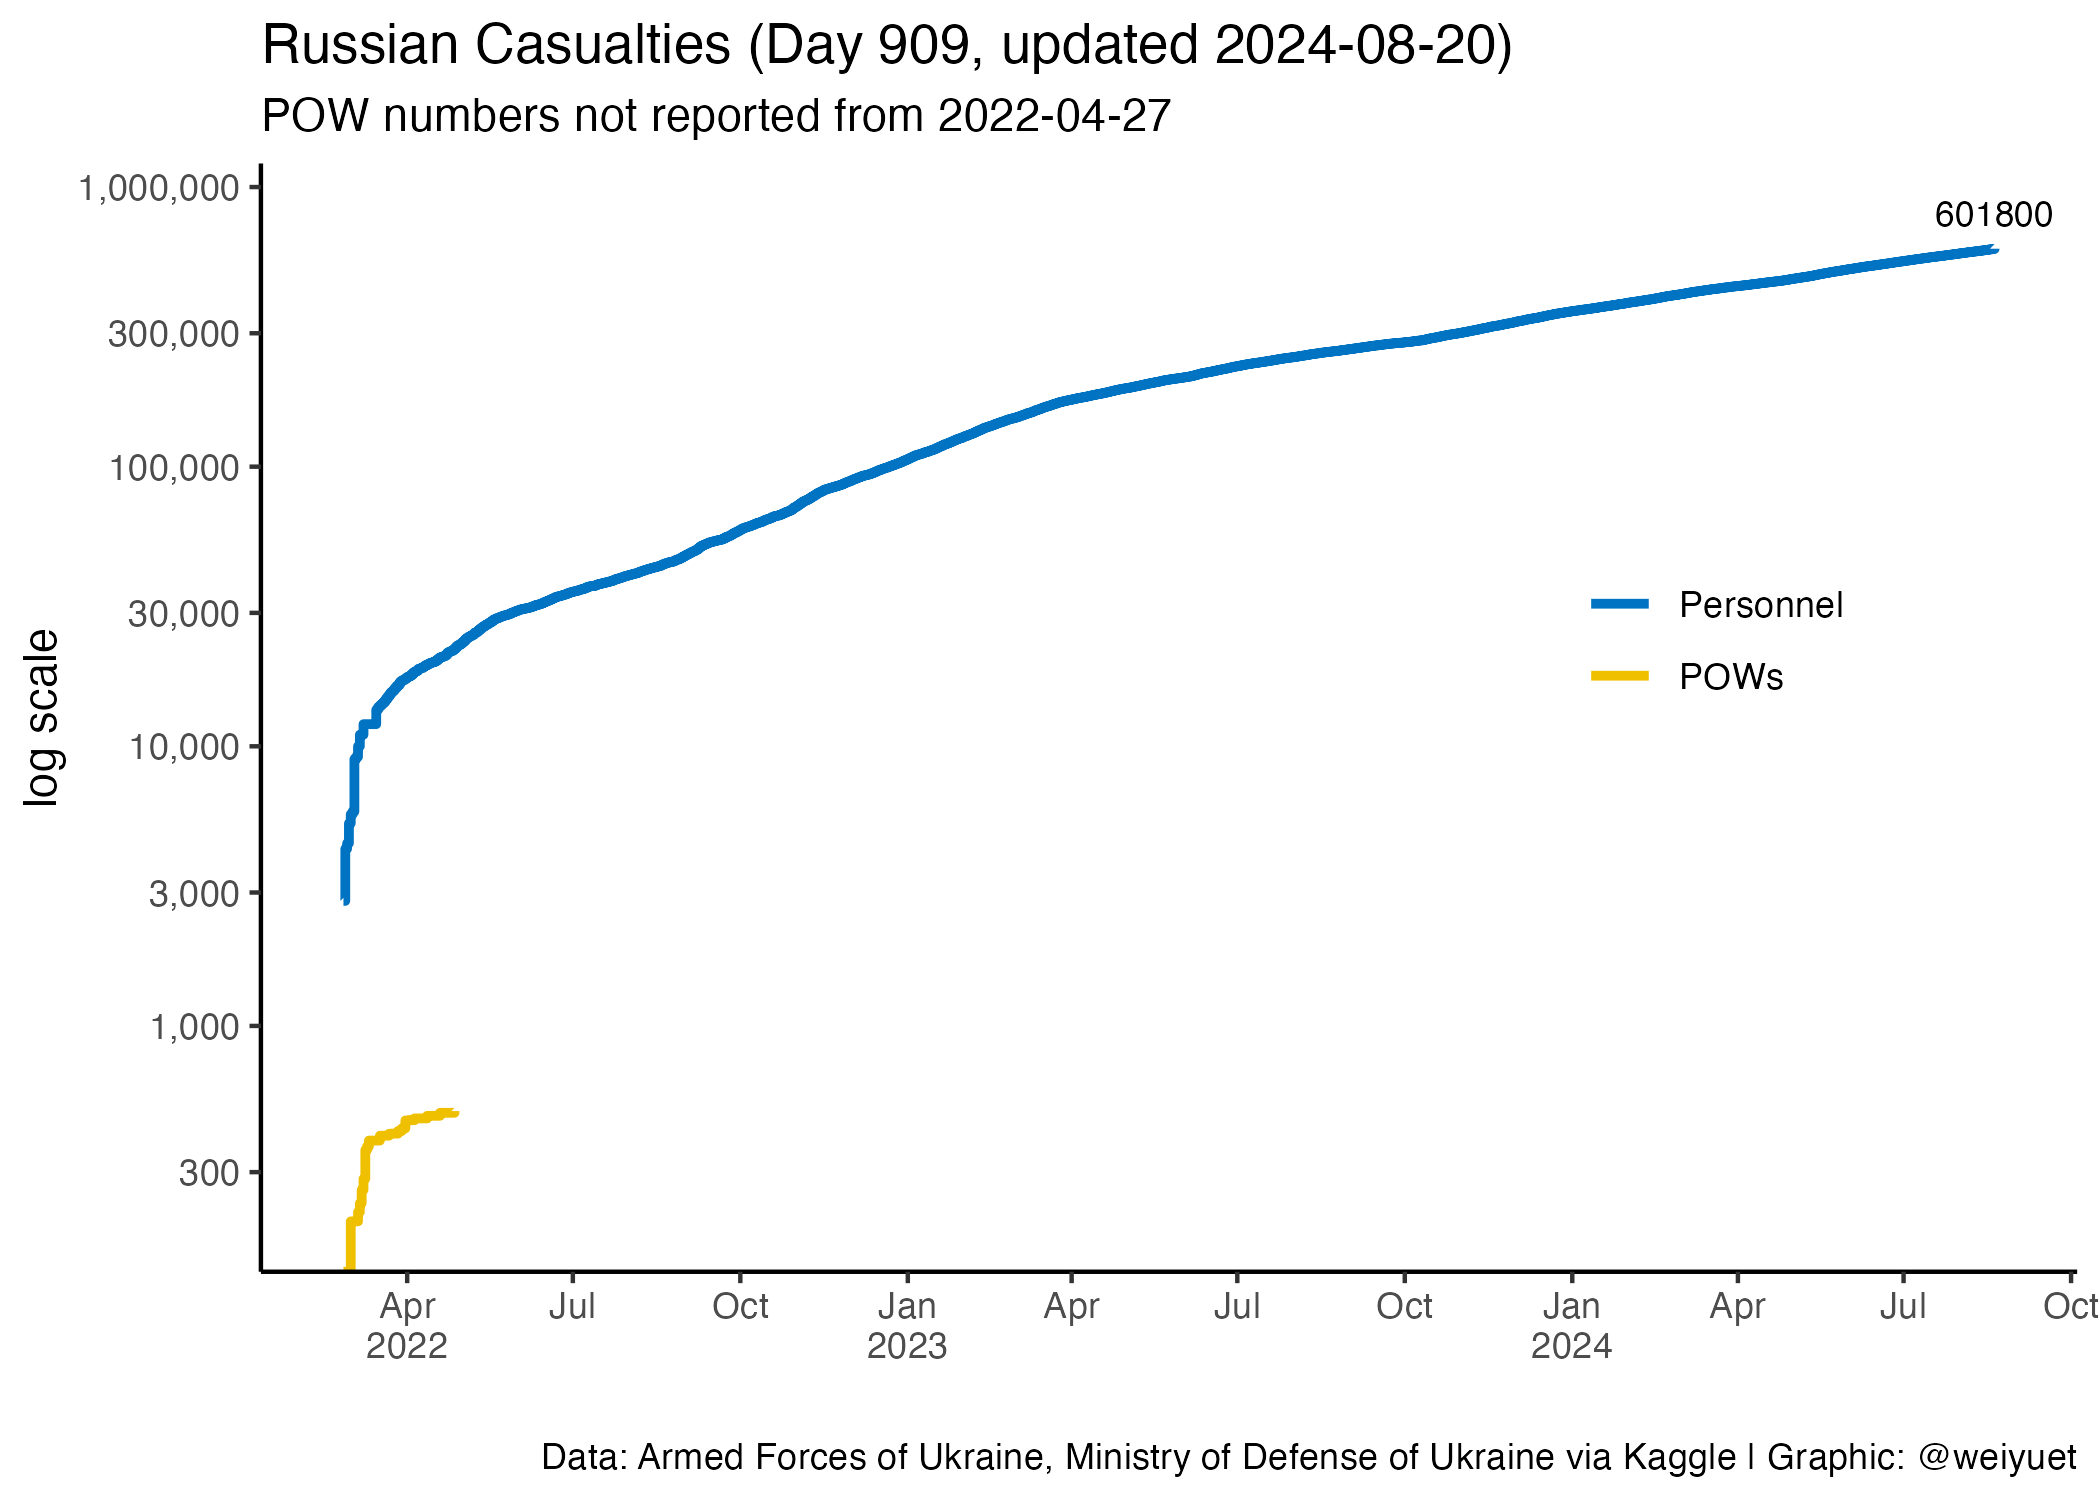
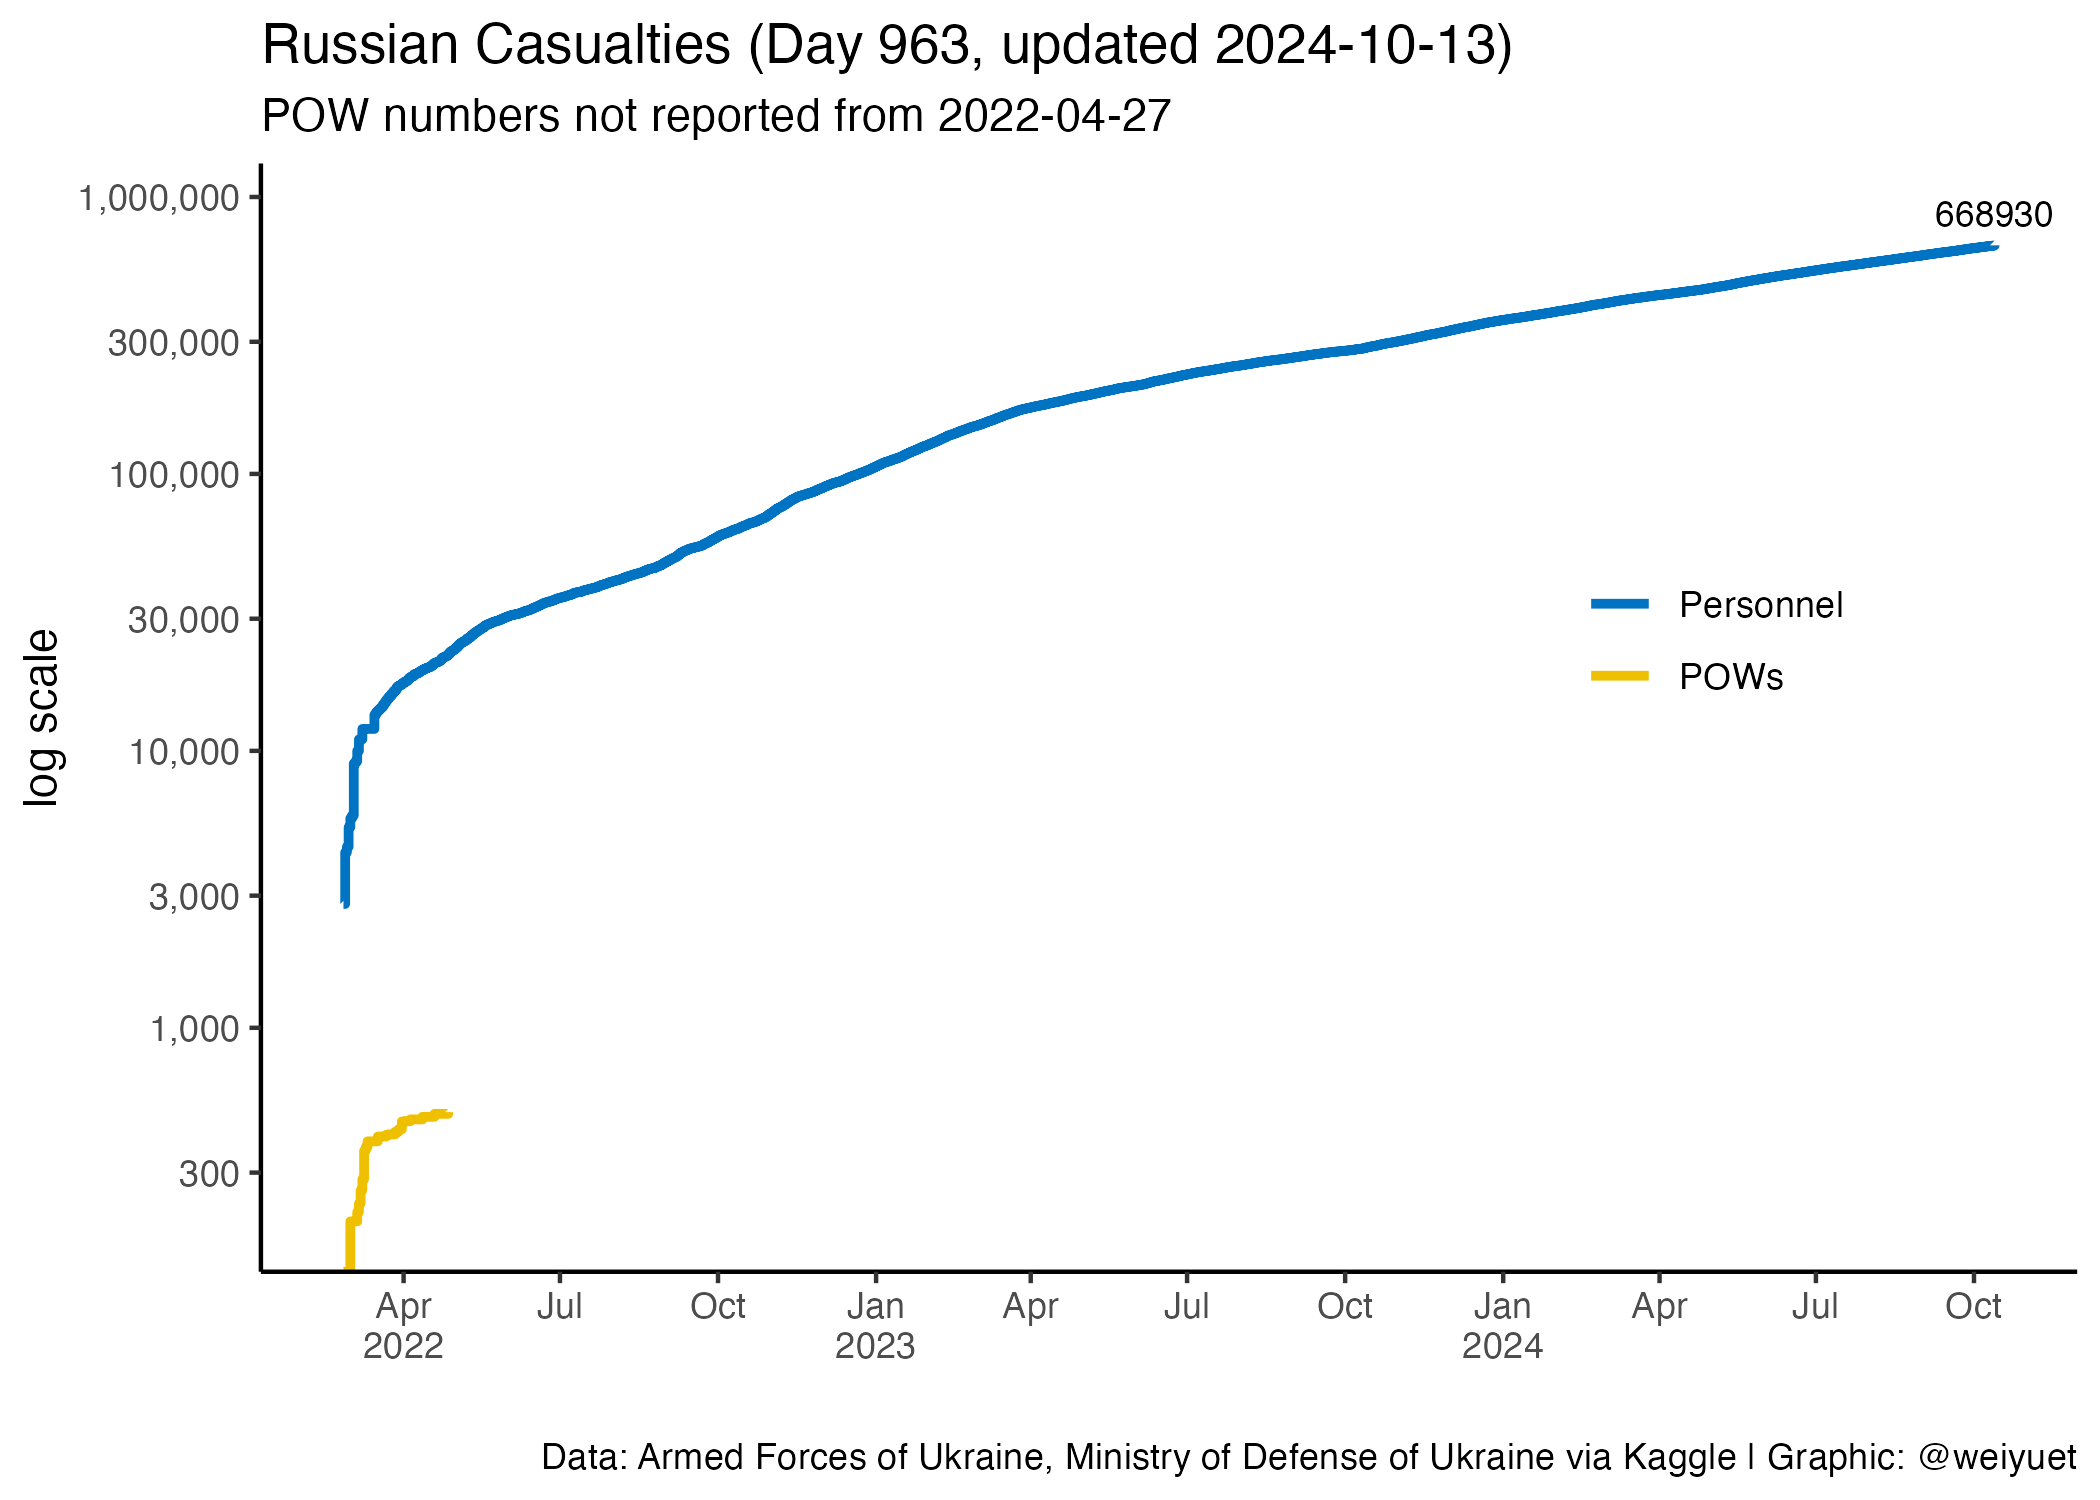
Updated 13 October

diff --git a/README.md b/README.md
@@ -6,7 +6,7 @@ Wong Wei Yuet 2022-05-26
 
   - War casualty data updated weekly from [`Petro Ivanyuk's Kaggle`](https://www.kaggle.com/datasets/piterfm/2022-ukraine-russian-war). All data is official and put together by `Petro`
 
-Updated: 2024-08-20
+Updated: 2024-10-13
 
 ## Summary of Conflict
 
